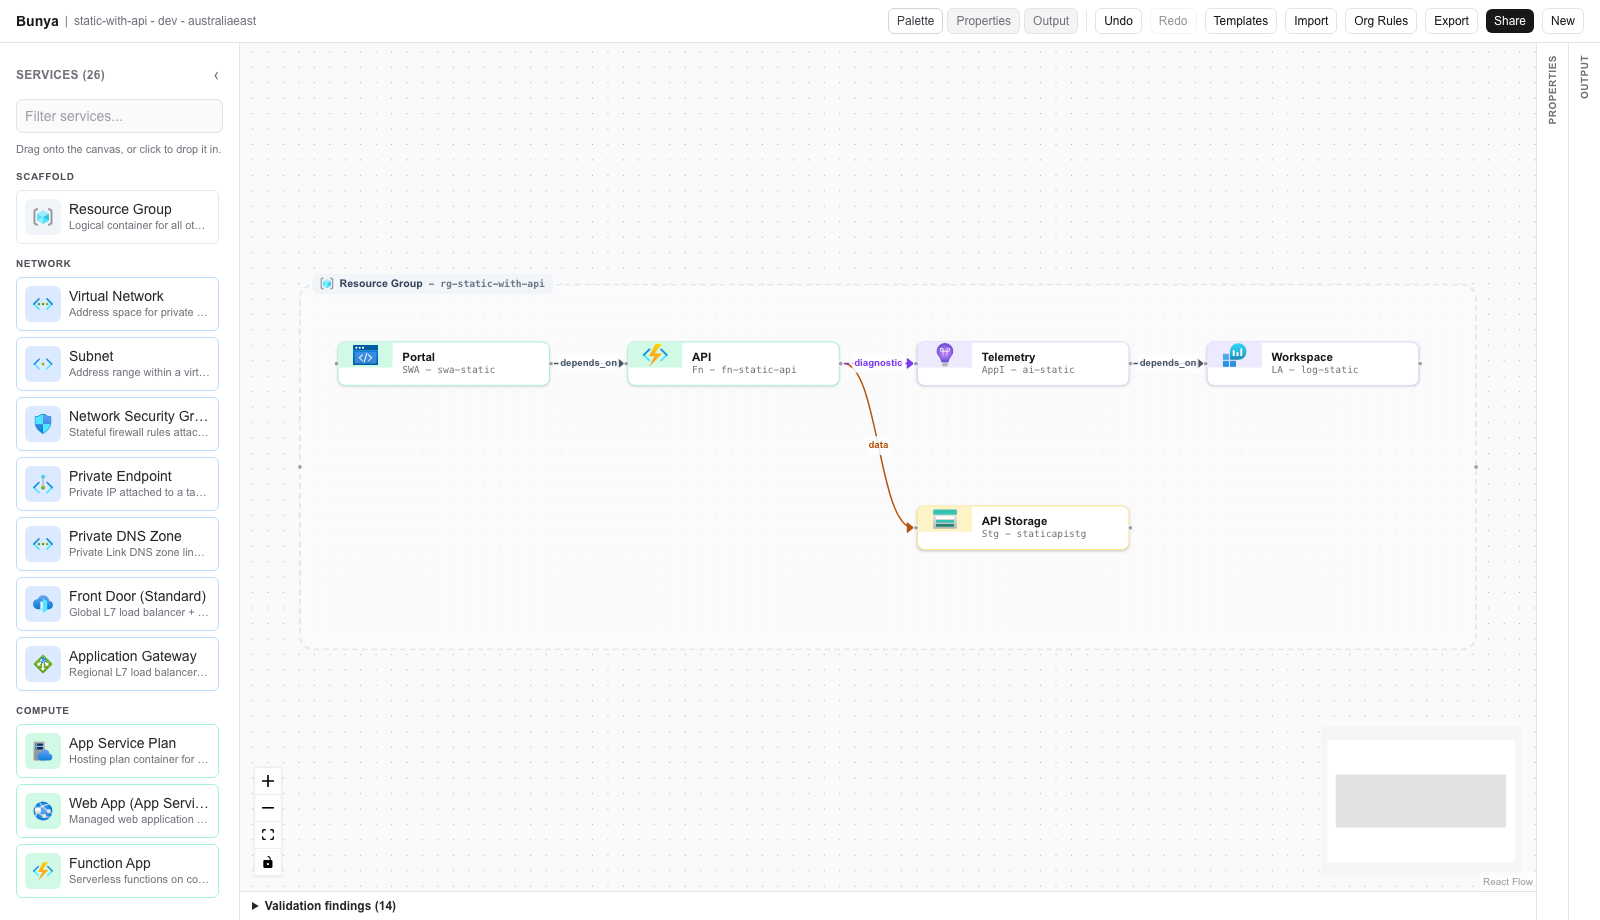
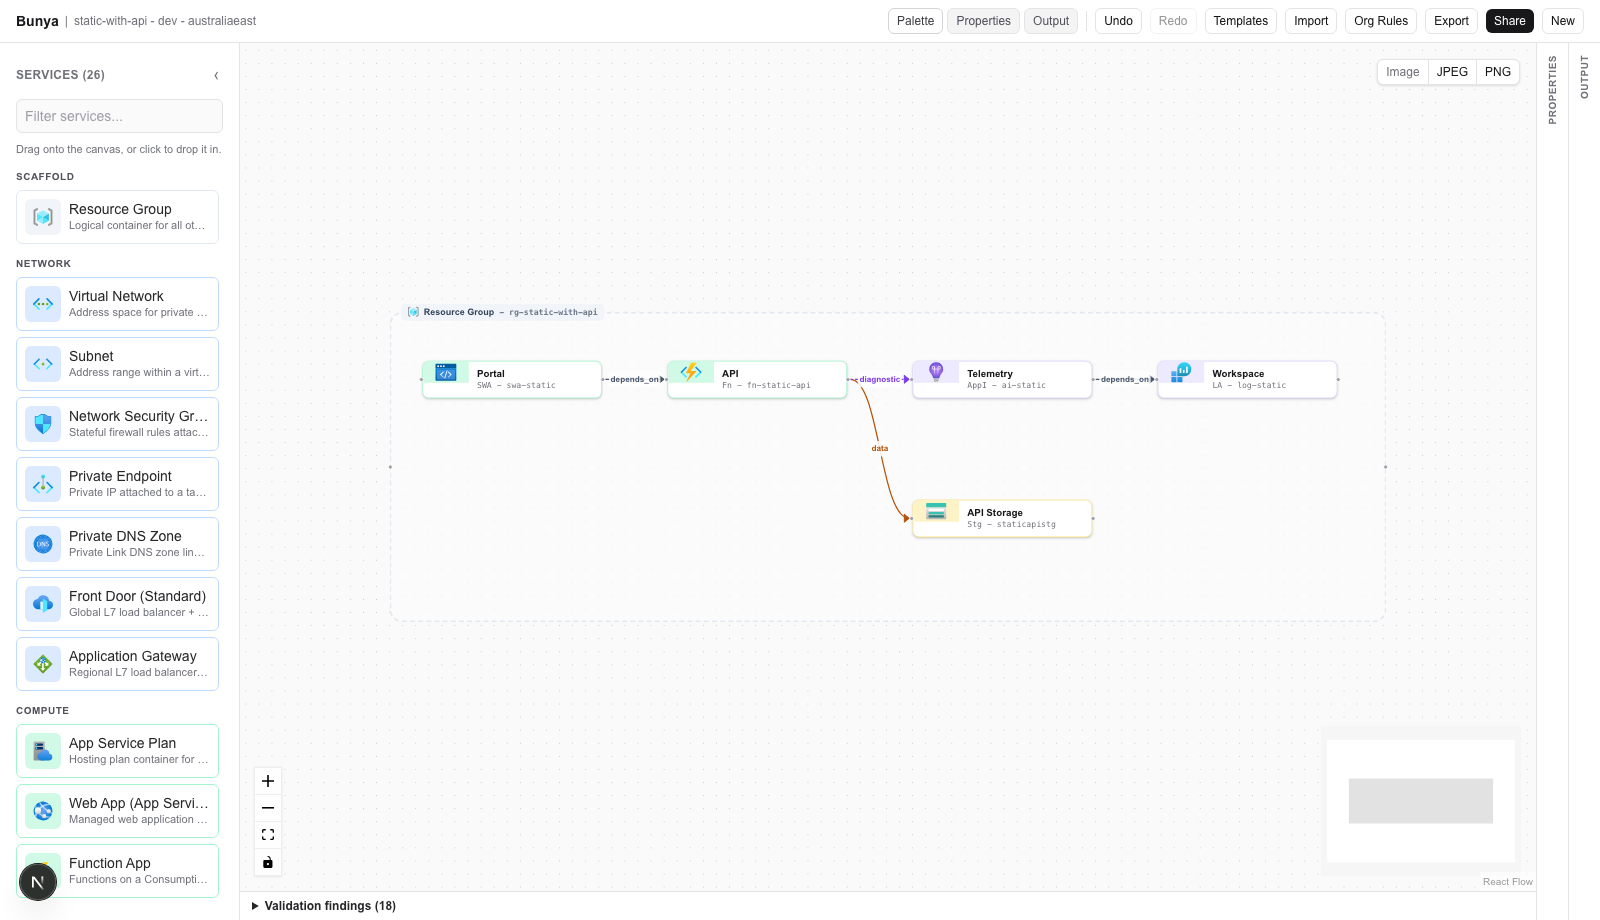
test(e2e): import each quickstart template in the browser and render every output
Also regenerate the README screenshots: quick-add now places services inside
the container under their grid slot, and node names follow the shared factory.

diff --git a/e2e/arm-import.spec.ts b/e2e/arm-import.spec.ts
@@ -5,6 +5,9 @@ import { test, expect } from "@playwright/test";
 const FIXTURES = join(__dirname, "fixtures", "arm");
 const templates = readdirSync(FIXTURES).filter((name) => name.endsWith(".json"));
 
+// Wide enough that the Output panel starts open (it collapses below 1440px).
+test.use({ viewport: { width: 1600, height: 1000 } });
+
 for (const name of templates) {
   test(`imports the ${name.replace(/\.json$/, "")} quickstart and generates every output`, async ({ page }) => {
     const errors: string[] = [];
@@ -24,15 +27,14 @@ for (const name of templates) {
     await expect.poll(() => page.locator(".react-flow__node").count()).toBeGreaterThan(4);
     await expect(page.getByRole("button", { name: /Import notes/ })).toBeVisible();
 
-    // Every output tab renders either generated code or Bunya's explanation
-    // of why it cannot generate this diagram, never a crash.
-    await page.getByRole("button", { name: "Output" }).first().click();
-    const tabs = page.getByRole("tab");
-    const count = await tabs.count();
-    expect(count).toBeGreaterThan(5);
-    for (let index = 0; index < count; index++) {
-      await tabs.nth(index).click();
-      await expect(page.getByRole("tabpanel")).not.toBeEmpty();
+    // Every output renders either generated code or Bunya's explanation of
+    // why it cannot generate this diagram, never a crash.
+    const output = page.locator("section.editor-output");
+    for (const label of ["Terraform", "Bicep", "ARM", "az CLI", "PowerShell", "Azure Policy", "Mermaid", "README", "Cost"]) {
+      const tab = output.getByRole("button", { name: label, exact: true });
+      await tab.click();
+      await expect(tab).toHaveAttribute("aria-pressed", "true");
+      await expect(output.locator("pre, [role=alert], table").first()).toBeVisible();
     }
     expect(errors).toEqual([]);
   });
